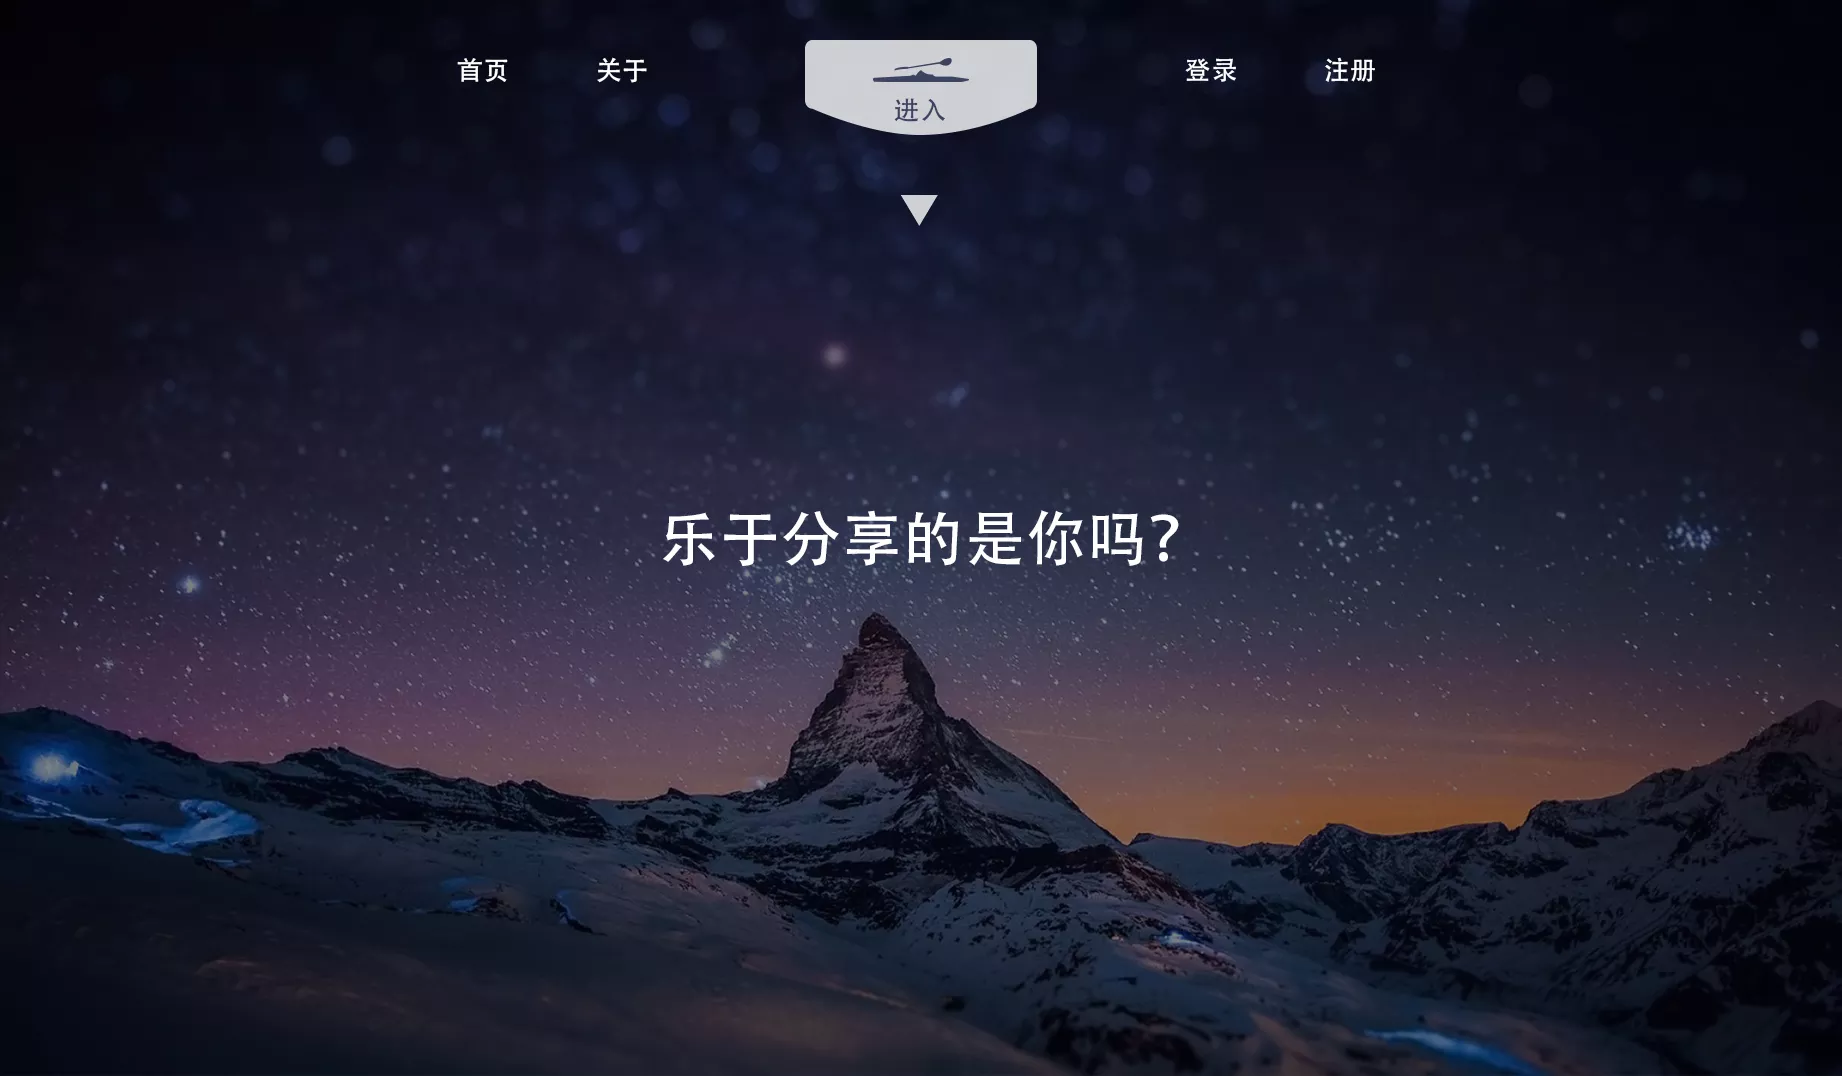
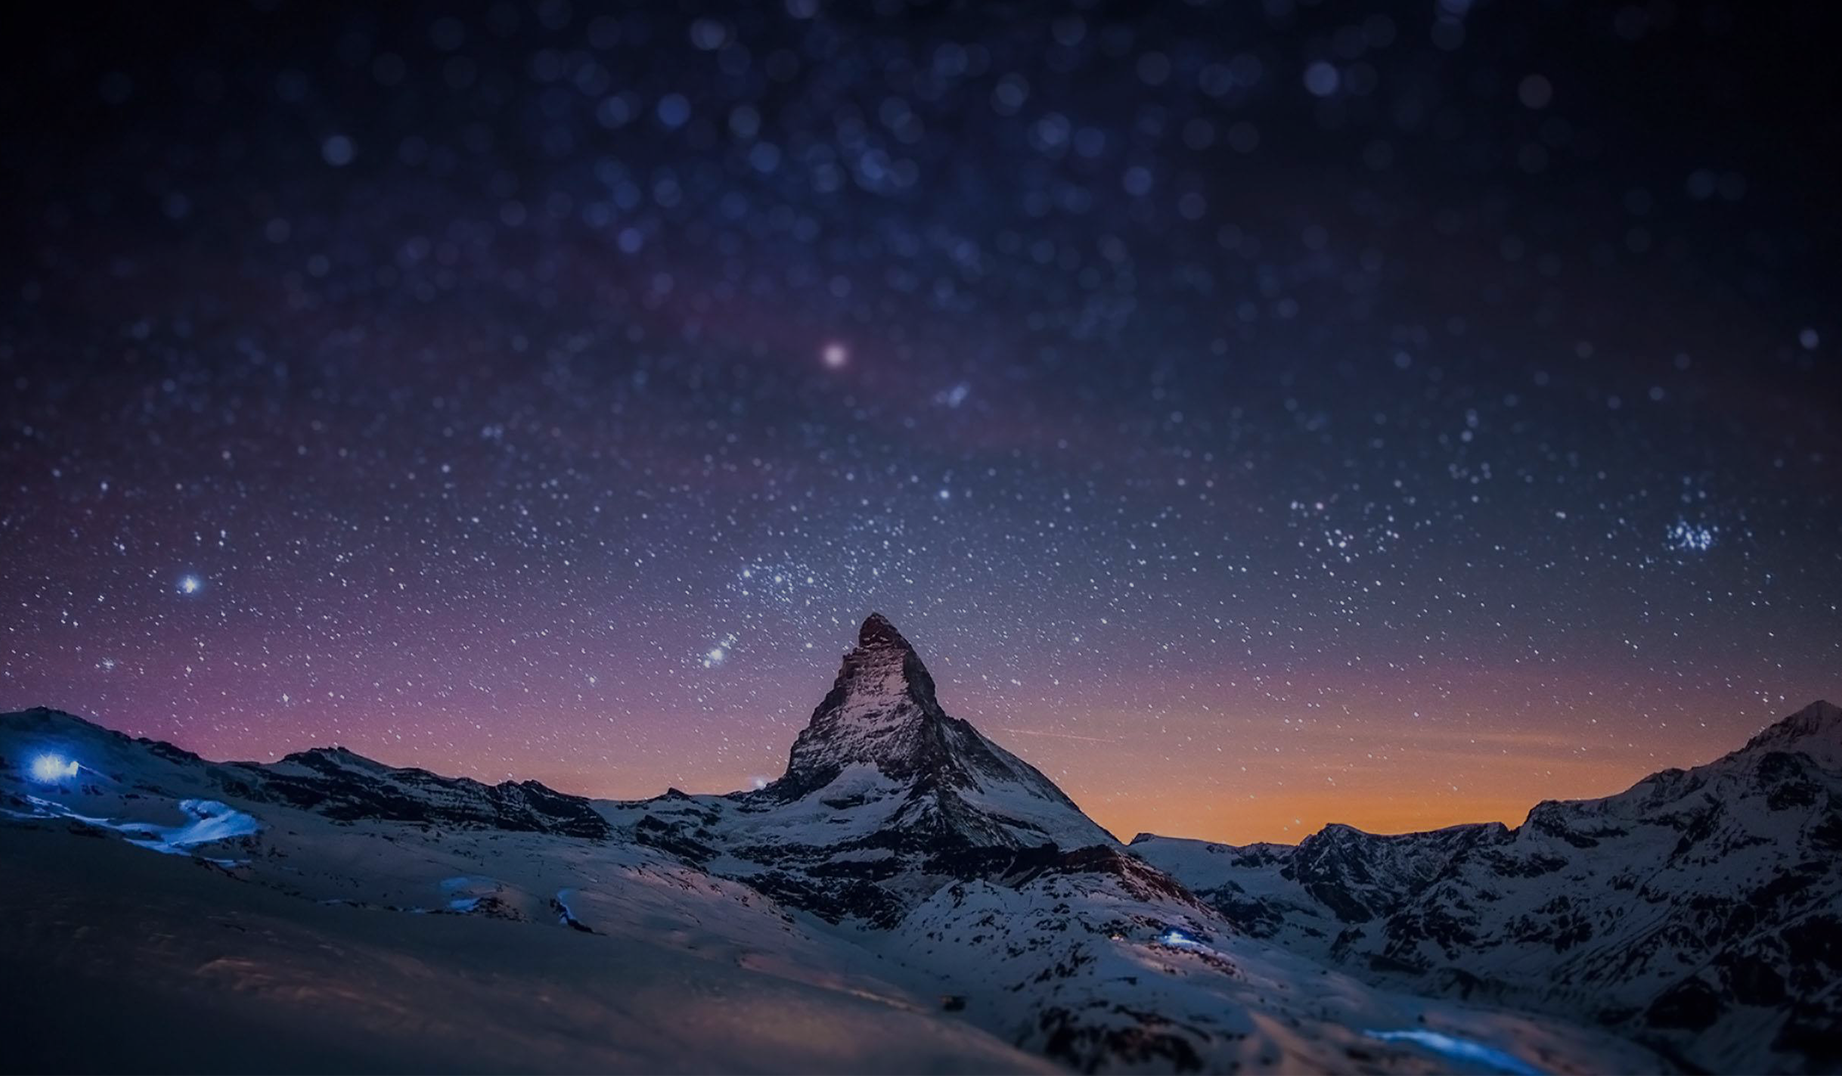
尝试布局

diff --git a/layouts/blog.vue b/layouts/blog.vue
@@ -1,0 +1,56 @@
+<template>
+  <div>
+    <div>我的个人网站</div>
+    <nuxt />
+  </div>
+</template>
+
+<style>
+html {
+  font-family: 'Source Sans Pro', -apple-system, BlinkMacSystemFont, 'Segoe UI',
+    Roboto, 'Helvetica Neue', Arial, sans-serif;
+  font-size: 16px;
+  word-spacing: 1px;
+  -ms-text-size-adjust: 100%;
+  -webkit-text-size-adjust: 100%;
+  -moz-osx-font-smoothing: grayscale;
+  -webkit-font-smoothing: antialiased;
+  box-sizing: border-box;
+}
+
+*,
+*:before,
+*:after {
+  box-sizing: border-box;
+  margin: 0;
+}
+
+.button--green {
+  display: inline-block;
+  border-radius: 4px;
+  border: 1px solid #3b8070;
+  color: #3b8070;
+  text-decoration: none;
+  padding: 10px 30px;
+}
+
+.button--green:hover {
+  color: #fff;
+  background-color: #3b8070;
+}
+
+.button--grey {
+  display: inline-block;
+  border-radius: 4px;
+  border: 1px solid #35495e;
+  color: #35495e;
+  text-decoration: none;
+  padding: 10px 30px;
+  margin-left: 15px;
+}
+
+.button--grey:hover {
+  color: #fff;
+  background-color: #35495e;
+}
+</style>

diff --git a/pages/index.vue b/pages/index.vue
@@ -1,16 +1,14 @@
 <template>
   <div class="container">
     <div class="home">
-      
+      <!-- <nuxt-link to="/login">登录</nuxt-link> -->
     </div>
   </div>
 </template>
 
 <script>
-import Logo from '~/components/Logo.vue'
 export default {
   components: {
-    Logo
   }
 }
 </script>
@@ -27,6 +25,7 @@ export default {
 .home{
   width: 100vw;
   height: 100vh;
-  background: url('~assets/imgs/home_bg.png');
+  background: no-repeat center url('~assets/imgs/home_bg.png');
+  background-size: cover;
 }
 </style>

diff --git a/app.html b/app.html
@@ -1,0 +1,9 @@
+<!DOCTYPE html>
+<html {{ HTML_ATTRS }}>
+  <head {{ HEAD_ATTRS }}>
+    {{ HEAD }} 555
+  </head>
+  <body {{ BODY_ATTRS }}>
+    {{ APP }}
+  </body>
+</html>
